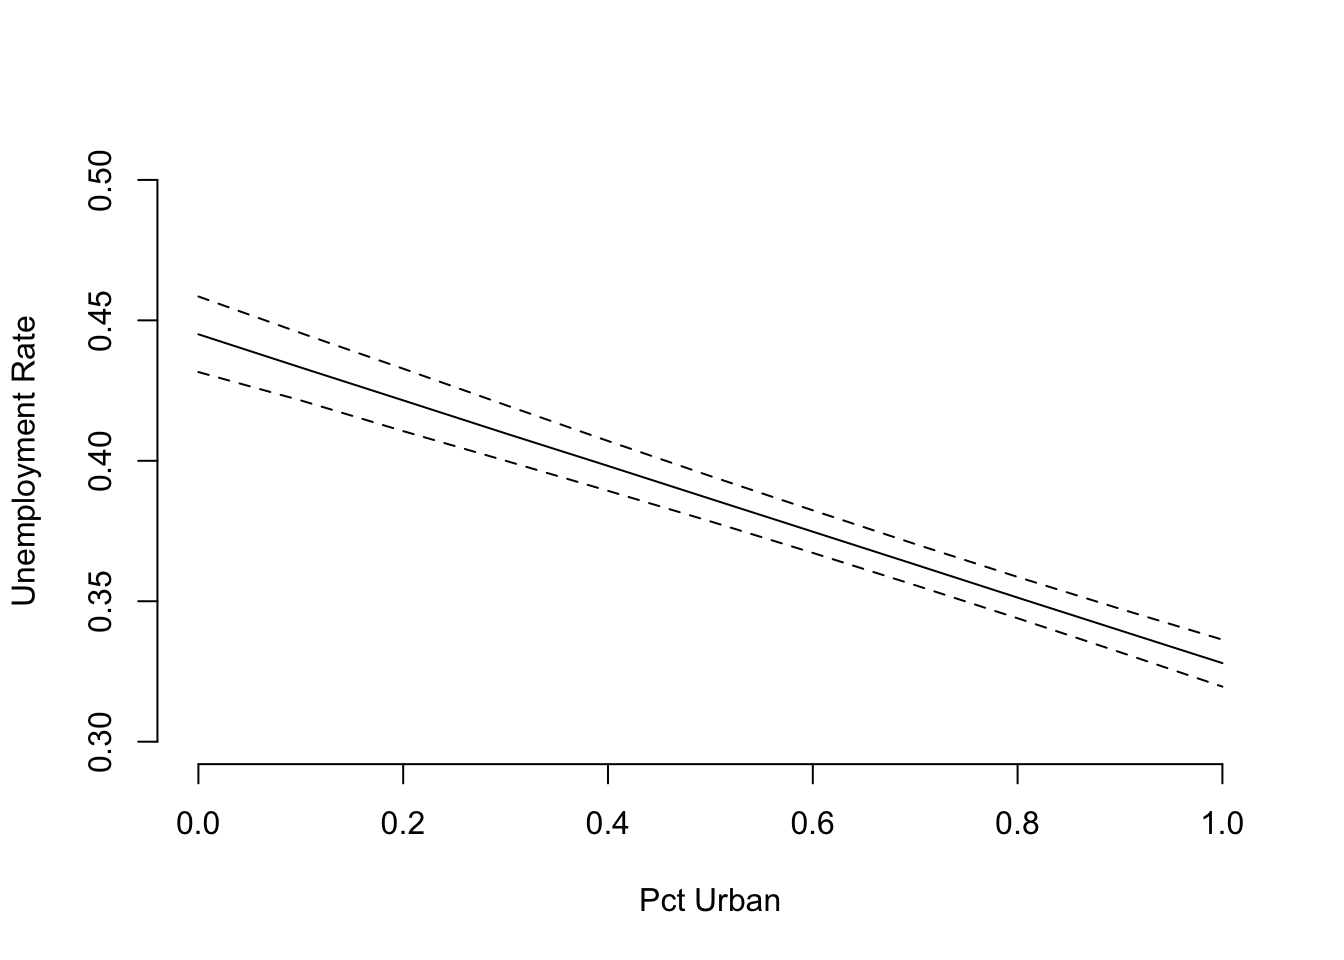
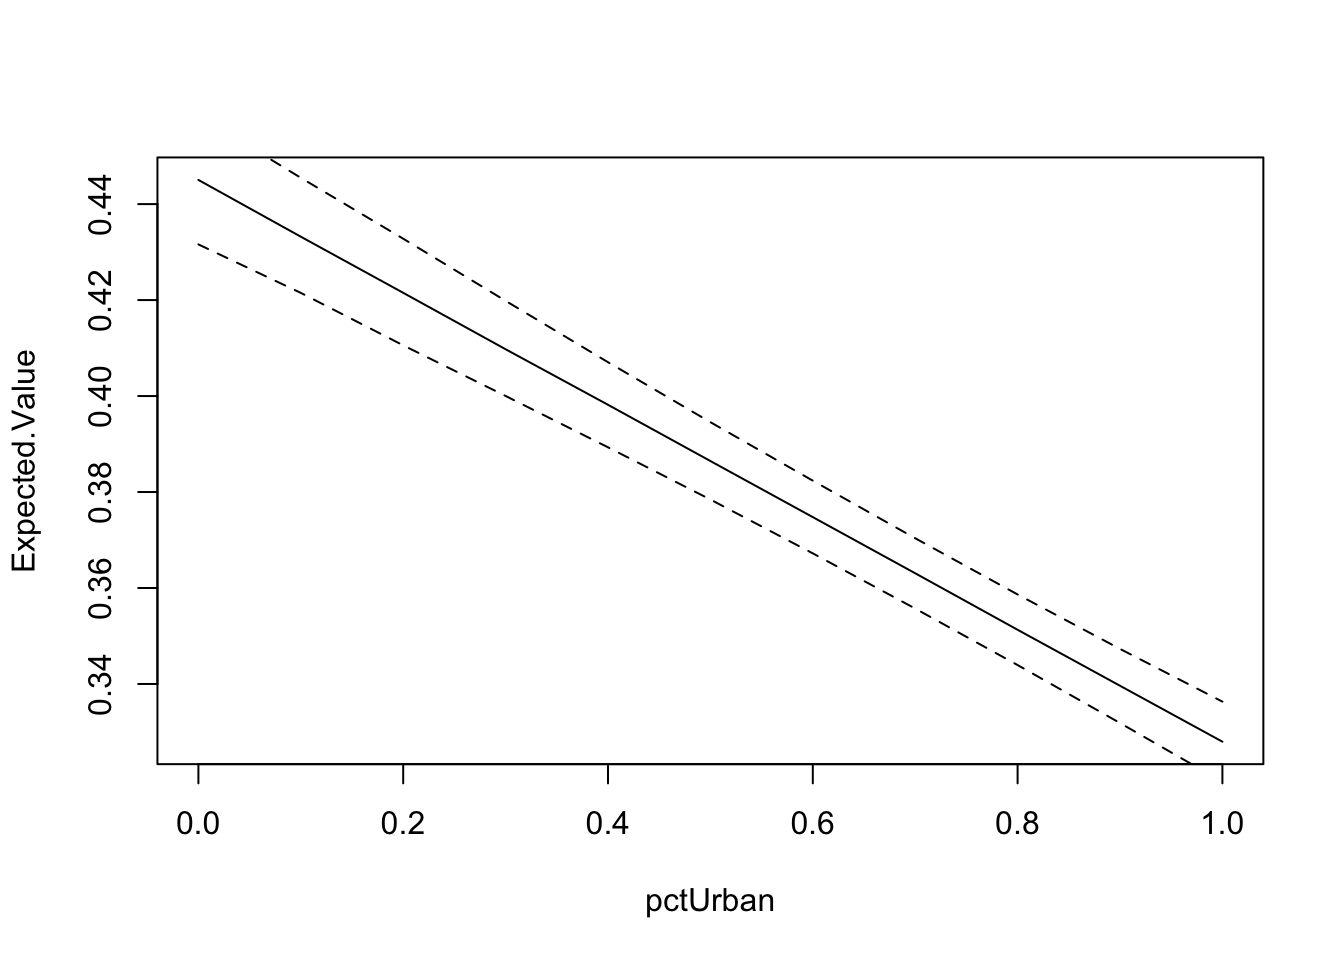
fixing regsim to support interaction terms and factors

diff --git a/docs/articles/getting_started.html b/docs/articles/getting_started.html
@@ -64,7 +64,7 @@
     <div class="page-header toc-ignore">
       <h1>Getting Started</h1>
             
-            <h4 class="date">2017-08-26</h4>
+            <h4 class="date">2017-08-27</h4>
           </div>
 
     
@@ -145,19 +145,23 @@ sim &lt;-<span class="st"> </span><span class="kw"><a href="../reference/regsim.
 ## 
 ## 
 ## $x
-##           [,1]      [,2]      [,3]      [,4]      [,5]      [,6]      [,7]
-## [1,] 1.0000000 1.0000000 1.0000000 1.0000000 1.0000000 1.0000000 1.0000000
-## [2,] 0.0000000 0.1000000 0.2000000 0.3000000 0.4000000 0.5000000 0.6000000
-## [3,] 0.4633952 0.4633952 0.4633952 0.4633952 0.4633952 0.4633952 0.4633952
-## [4,] 0.7537161 0.7537161 0.7537161 0.7537161 0.7537161 0.7537161 0.7537161
-##           [,8]      [,9]     [,10]     [,11]
-## [1,] 1.0000000 1.0000000 1.0000000 1.0000000
-## [2,] 0.7000000 0.8000000 0.9000000 1.0000000
-## [3,] 0.4633952 0.4633952 0.4633952 0.4633952
-## [4,] 0.7537161 0.7537161 0.7537161 0.7537161
+##    (Intercept) pctUrban householdsize racePctWhite
+## 1            1      0.0     0.4633952    0.7537161
+## 2            1      0.1     0.4633952    0.7537161
+## 3            1      0.2     0.4633952    0.7537161
+## 4            1      0.3     0.4633952    0.7537161
+## 5            1      0.4     0.4633952    0.7537161
+## 6            1      0.5     0.4633952    0.7537161
+## 7            1      0.6     0.4633952    0.7537161
+## 8            1      0.7     0.4633952    0.7537161
+## 9            1      0.8     0.4633952    0.7537161
+## 10           1      0.9     0.4633952    0.7537161
+## 11           1      1.0     0.4633952    0.7537161
+## attr(,"assign")
+## [1] 0 1 2 3
 ## 
 ## $ev
-##              [,1]      [,2]      [,3]      [,4]      [,5]      [,6]
+##                 1         2         3         4         5         6
 ##    [1,] 0.4423448 0.4309296 0.4195144 0.4080993 0.3966841 0.3852689
 ##    [2,] 0.4468157 0.4347278 0.4226399 0.4105520 0.3984640 0.3863761
 ##    [3,] 0.4400216 0.4283085 0.4165954 0.4048823 0.3931692 0.3814561
@@ -1158,7 +1162,7 @@ sim &lt;-<span class="st"> </span><span class="kw"><a href="../reference/regsim.
 ##  [998,] 0.4438156 0.4328275 0.4218393 0.4108511 0.3998629 0.3888748
 ##  [999,] 0.4488928 0.4363112 0.4237297 0.4111481 0.3985665 0.3859849
 ## [1000,] 0.4536179 0.4413265 0.4290351 0.4167437 0.4044522 0.3921608
-##              [,7]      [,8]      [,9]     [,10]     [,11]
+##                 7         8         9        10        11
 ##    [1,] 0.3738537 0.3624385 0.3510234 0.3396082 0.3281930
 ##    [2,] 0.3742882 0.3622003 0.3501123 0.3380244 0.3259365
 ##    [3,] 0.3697430 0.3580299 0.3463168 0.3346037 0.3228905

diff --git a/docs/reference/plot.regsim.html b/docs/reference/plot.regsim.html
@@ -95,18 +95,18 @@
     
 
     <pre class="usage"><span class='co'># S3 method for regsim</span>
-<span class='fu'>plot</span>(<span class='no'>object</span>, <span class='no'>xvar</span>, <span class='no'>...</span>)</pre>
+<span class='fu'>plot</span>(<span class='no'>x</span>, <span class='no'>var</span>, <span class='no'>...</span>)</pre>
     
     <h2 class="hasAnchor" id="arguments"><a class="anchor" href="#arguments"></a> Arguments</h2>
     <table class="ref-arguments">
     <colgroup><col class="name" /><col class="desc" /></colgroup>
     <tr>
-      <th>object</th>
+      <th>x</th>
       <td><p>an object of class "regsim", usually obtained by calling the
 <code>regsim</code> function.</p></td>
     </tr>
     <tr>
-      <th>xvar</th>
+      <th>var</th>
       <td><p>variable to plot on the x-axis</p></td>
     </tr>
     <tr>
